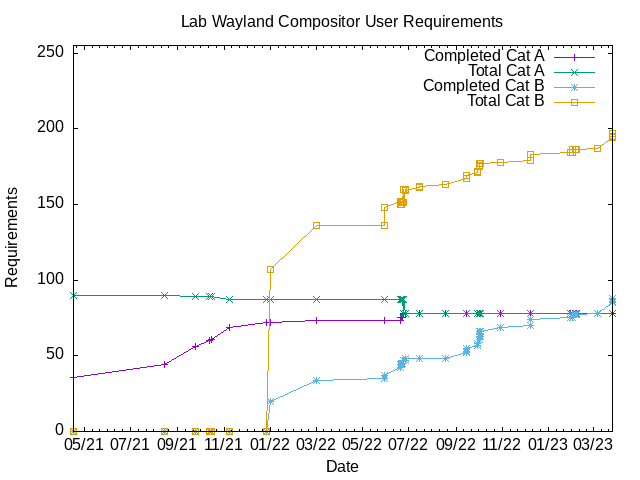
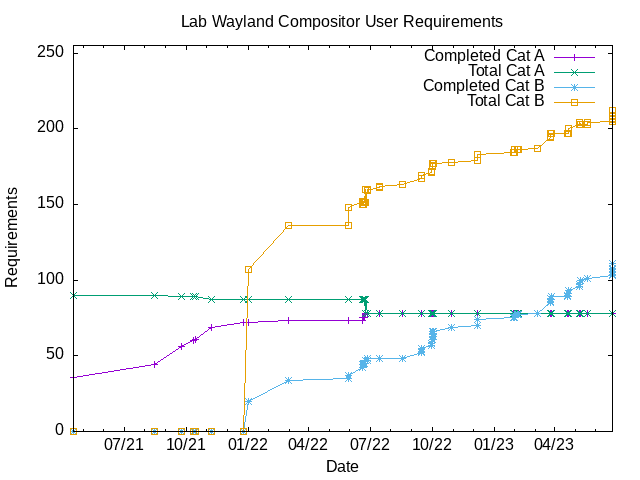
Update all sorts

diff --git a/all-cat-A-and-B-items.md b/all-cat-A-and-B-items.md
@@ -100,7 +100,7 @@ This file has been auto-generated based on README.md. Do not edit it manually
 |  B  | complete | 1.2.19    | wayland-protocol                | xdg-output-unstable-v1                                  |
 |  B  |          | 1.2.20    | wayland-protocol                | xwayland-keyboard-grab-unstable-v1                      |
 |  B  | complete | 1.2.21    | wayland-protocol                | drm-lease-v1                                            |
-|  B  |          | 1.2.22    | wayland-protocol                | [ext-session-lock-v1]                                   | This is more secure [^1]
+|  B  | complete | 1.2.22    | wayland-protocol                | [ext-session-lock-v1]                                   | This is more secure [^1]
 |  B  | complete | 1.2.23    | wayland-protocol                | xdg-activation-v1                                       |
 |  B  | complete | 1.2.24    | wayland-protocol                | single-pixel-buffer-v1                                  |
 |  B  | complete | 1.3.1     | wlr-protocol                    | wlr-data-control-unstable-v1                            |
@@ -110,9 +110,10 @@ This file has been auto-generated based on README.md. Do not edit it manually
 |  B  | complete | 1.3.8     | wlr-protocol                    | wlr-output-power-management-unstable-v1                 |
 |  B  | complete | 1.3.9     | wlr-protocol                    | wlr-screencopy-unstable-v1                              |
 |  B  | complete | 1.3.10    | wlr-protocol                    | wlr-virtual-pointer-unstable-v1                         |
-|  B  |          | 1.3.11    | wlr-protocol                    | [kde-server-decoration]                                 | xdg-decoration is preferable, but we support this until GTK move across
+|  B  | complete | 1.3.11    | wlr-protocol                    | [kde-server-decoration]                                 | xdg-decoration is preferable, but we support this until GTK move across
 |  B  |          | 2.1.1     | resistance                      | `strength`                                              | If we implement, consider a better name
 |  B  | complete | 2.2.3     | focus                           | `followMouse`                                           |
+|  B  | complete | 2.2.5     | focus                           | `followMouseRequiresMovement`                           | DEVIATION It is called `underMouse` in Openbox
 |  B  | complete | 2.2.6     | focus                           | `raiseOnFocus`                                          |
 |  B+ |          | 2.4.2     | theme                           | `titleLayout`                                           |
 |  B  |          | 2.4.4     | theme                           | `keepBorder`                                            |
@@ -124,14 +125,18 @@ This file has been auto-generated based on README.md. Do not edit it manually
 |  B  | complete | 2.4.12    | theme                           | `<font place=""><size>`                                 |
 |  B  | complete | 2.4.13    | theme                           | `<font place=""><weight>`                               |
 |  B  | complete | 2.4.14    | theme                           | `<font place=""><slant>`                                |
+|  B  | complete | 2.5.1     | desktop                         | `number`                                                |
 |  B  | complete | 2.5.3     | desktop                         | `popupTime`                                             |
 |  B  | complete | 2.5.4     | desktop                         | `names`                                                 |
-|  B  |          | 2.7.1     | applications                    | `decor`                                                 |
-|  B  |          | 2.7.3     | applications                    | `position`                                              |
-|  B  |          | 2.7.4     | applications                    | `size`                                                  |
-|  B  |          | 2.7.6     | applications                    | `desktop`                                               |
-|  B  |          | 2.7.7     | applications                    | `layer`                                                 | If we implement, consider better name
-|  B  |          | 2.7.12    | applications                    | `maximized`                                             |
+|  B  | complete | 2.7.1     | window rules                    | `windowRule`                                            | EXTRA
+|  B  | complete | 2.7.2.1   | window rule criteria            | `windowRule.identifier`                                 | EXTRA
+|  B  | complete | 2.7.2.2   | window rule criteria            | `windowRule.title`                                      | EXTRA
+|  B  | complete | 2.7.2.3   | window rule criteria            | `windowRule.matchOnce`                                  | EXTRA
+|  B  | complete | 2.7.3.1   | window rules                    | `windowRule.serverDecoration`                           | EXTRA
+|  B  | complete | 2.7.3.2   | window rules                    | `windowRule.skipTaskbar`                                | EXTRA
+|  B  | complete | 2.7.3.3   | window rules                    | `windowRule.skipWindowSwitcher`                         | EXTRA
+|  B  |          | 2.7.3.4   | window rules                    | `windowRule.allowFocusRequest`                          | EXTRA
+|  B  | complete | 2.10.1    | margins                         | `<margin>`                                              |
 |  B  |          | 2.11.1    | menu                            | `hideDelay`                                             |
 |  B  |          | 2.11.3    | menu                            | `submenuShowDelay`                                      |
 |  B  |          | 2.11.6    | menu                            | `file`                                                  | TODO: is this supported already?
@@ -139,9 +144,12 @@ This file has been auto-generated based on README.md. Do not edit it manually
 |  B  | complete | 2.13.1    | core                            | `gap`                                                   | EXTRA
 |  B  | complete | 2.13.1    | core                            | `adaptiveSync`                                          | EXTRA
 |  B  | complete | 2.13.1    | core                            | `reuseOutputMode`                                       | EXTRA
-|  B  | complete | 2.13.1    | core                            | `windowSwitcher.show`                                   | EXTRA
-|  B  | complete | 2.13.1    | core                            | `windowSwitcher.preview`                                | EXTRA
-|  B  | complete | 2.13.1    | core                            | `windowSwitcher.outlines`                               | EXTRA
+|  B  | complete | 2.13.1    | window switcher                 | `show`                                                  | EXTRA
+|  B  | complete | 2.13.2    | window switcher                 | `preview`                                               | EXTRA
+|  B  | complete | 2.13.3    | window switcher                 | `outlines`                                              | EXTRA
+|  B  | complete | 2.13.4    | window switcher                 | `fields.field`                                          | EXTRA
+|  B  | complete | 2.13.5    | window switcher                 | `fields.field.content`                                  | EXTRA
+|  B  | complete | 2.13.6    | window switcher                 | `fields.field.width`                                    | EXTRA
 |  B  | complete | 3.1.6     | keyboard binding                | `default`                                               | EXTRA
 |  B  | complete | 3.2.4     | mouse binding                   | `default`                                               | EXTRA
 |  B  | complete | 3.3.1     | mouse context                   | `Frame`                                                 |
@@ -171,6 +179,7 @@ This file has been auto-generated based on README.md. Do not edit it manually
 |  B  | complete | 4.7.1.1   | global action                   | `GoToDesktop.to::last`                                  |
 |  B  | complete | 4.7.1.2   | global action                   | `GoToDesktop.to::right`                                 |
 |  B  | complete | 4.7.1.3   | global action                   | `GoToDesktop.to::left`                                  |
+|  B  | complete | 4.7.2     | global action                   | `GoToDesktop.wrap`                                      |
 |  B  |          | 4.8       | global action                   | `AddDesktop`                                            |
 |  B  |          | 4.9       | global action                   | `RemoveDesktop`                                         |
 |  B  |          | 4.10      | global action                   | `ToggleShowDesktop`                                     |
@@ -196,14 +205,17 @@ This file has been auto-generated based on README.md. Do not edit it manually
 |  B  | complete | 5.20      | window action                   | `SendToDesktop`                                         |
 |  B  | complete | 5.20.1    | window action                   | `SendToDesktop.to`                                      |
 |  B  | complete | 5.20.2    | window action                   | `SendToDesktop.follow`                                  |
-|  B  |          | 5.23      | window action                   | `MoveResizeTo`                                          |
-|  B  |          | 5.24      | window action                   | `MoveRelative`                                          |
+|  B  | complete | 5.20.3    | window action                   | `SendToDesktop.wrap`                                    |
+|  B  | complete | 5.23.1    | window action                   | `MoveTo`                                                | DEVIATION: `MoveResizeTo` in Openbox
+|  B  |          | 5.23.2    | window action                   | `ResizeTo`                                              |
+|  B  | complete | 5.24      | window action                   | `MoveRelative`                                          |
 |  B  |          | 5.25      | window action                   | `ResizeRelative`                                        |
 |  B  | complete | 5.26      | window action                   | `MoveToEdge`                                            |
 |  B  |          | 5.27      | window action                   | `GrowToEdge`                                            |
 |  B  |          | 5.28      | window action                   | `GrowToFill`                                            |
 |  B  |          | 5.29      | window action                   | `ShrinkToEdge`                                          |
 |  B  | complete | 5.33      | window action                   | `ToggleAlwaysOnTop`                                     |
+|  B  | complete | 5.34      | window action                   | `ToggleAlwaysOnBottom`                                  |
 |  B  | complete | 5.36      | window action                   | `SnapToEdge`                                            | EXTRA
 |  B  | complete | 5.37      | window action                   | `SnapToRegion`                                          | EXTRA
 |  B  |          | 6.1.2     | geometry                        | `menu.border.width`                                     |
@@ -269,10 +281,13 @@ This file has been auto-generated based on README.md. Do not edit it manually
 |  B  | complete | 6.12.1    | text justification              | `window.label.text.justify`                             |
 |  B  |          | 6.12.2    | text justification              | `menu.title.text.justify`                               |
 |  B  | complete | 8.3.1     | extra                           | Read menu.xbm if it exists                              | EXTRA
+|  B  | complete | 7.0.1     | menu general                    | Parse menu.xml in accordance with Openbox 3.6 spec      |
+|  B  | complete | 7.0.2     | menu general                    | Handle pointer input                                    |
+|  B+ |          | 7.0.3     | menu general                    | Handle keyboard input                                   |
 |  B  |          | 7.1.2     | menu syntax general             | `label`                                                 |
 |  B  |          | 7.1.4     | menu syntax general             | `execute`                                               | aka pipe-menus
 |  B  |          | 7.3.2     | menu syntax separator           | `<separator label="" />`                                | For separator with text
-|  B  |          | 8.1.2     | extra                           | Support png buttons                                     |
+|  B+ |          | 8.1.2     | extra                           | Support png buttons                                     |
 |  B  | complete | 8.2.1     | extra                           | `<snapping>`                                            |
 |  B  | complete | 8.2.2     | extra                           | `<snapping><range>`                                     |
 |  B  | complete | 8.2.3     | extra                           | `<snapping><topMaximize>`                               |

diff --git a/incomplete-cat-B-items.md b/incomplete-cat-B-items.md
@@ -3,6 +3,8 @@ This file has been auto-generated based on README.md. Do not edit it manually
 | Cat | Status   | Reference | Category                        | Description                                             | Comment
 | --- | -------- | --------- | ------------------------------- | ------------------------------------------------------- | -------
 |  B+ |          | 2.4.2     | theme                           | `titleLayout`                                           |
+|  B+ |          | 7.0.3     | menu general                    | Handle keyboard input                                   |
+|  B+ |          | 8.1.2     | extra                           | Support png buttons                                     |
 |  B  |          | 1.2.6     | wayland-protocol                | input-method-unstable-v1                                |
 |  B  |          | 1.2.7     | wayland-protocol                | input-timestamps-unstable-v1                            |
 |  B  |          | 1.2.8     | wayland-protocol                | keyboard-shortcuts-inhibit-unstable-v1                  | This is controversial [^3]
@@ -13,18 +15,11 @@ This file has been auto-generated based on README.md. Do not edit it manually
 |  B  |          | 1.2.16    | wayland-protocol                | text-input-unstable-v3                                  |
 |  B  |          | 1.2.18    | wayland-protocol                | xdg-foreign-unstable-v2                                 |
 |  B  |          | 1.2.20    | wayland-protocol                | xwayland-keyboard-grab-unstable-v1                      |
-|  B  |          | 1.2.22    | wayland-protocol                | [ext-session-lock-v1]                                   | This is more secure [^1]
-|  B  |          | 1.3.11    | wlr-protocol                    | [kde-server-decoration]                                 | xdg-decoration is preferable, but we support this until GTK move across
 |  B  |          | 2.1.1     | resistance                      | `strength`                                              | If we implement, consider a better name
 |  B  |          | 2.4.4     | theme                           | `keepBorder`                                            |
 |  B  |          | 2.4.7     | theme                           | `<font place="InactiveWindow">`                         |
 |  B  |          | 2.4.8     | theme                           | `<font place="MenuHeader">`                             |
-|  B  |          | 2.7.1     | applications                    | `decor`                                                 |
-|  B  |          | 2.7.3     | applications                    | `position`                                              |
-|  B  |          | 2.7.4     | applications                    | `size`                                                  |
-|  B  |          | 2.7.6     | applications                    | `desktop`                                               |
-|  B  |          | 2.7.7     | applications                    | `layer`                                                 | If we implement, consider better name
-|  B  |          | 2.7.12    | applications                    | `maximized`                                             |
+|  B  |          | 2.7.3.4   | window rules                    | `windowRule.allowFocusRequest`                          | EXTRA
 |  B  |          | 2.11.1    | menu                            | `hideDelay`                                             |
 |  B  |          | 2.11.3    | menu                            | `submenuShowDelay`                                      |
 |  B  |          | 2.11.6    | menu                            | `file`                                                  | TODO: is this supported already?
@@ -48,8 +43,7 @@ This file has been auto-generated based on README.md. Do not edit it manually
 |  B  |          | 5.15      | window action                   | `Unmaximize`                                            | Needed if we implement 2.7 `<applications>`
 |  B  |          | 5.18      | window action                   | `Decorate`                                              | Needed if we implement 2.7 `<applications>`
 |  B  |          | 5.19      | window action                   | `Undecorate`                                            | Needed if we implement 2.7 `<applications>`
-|  B  |          | 5.23      | window action                   | `MoveResizeTo`                                          |
-|  B  |          | 5.24      | window action                   | `MoveRelative`                                          |
+|  B  |          | 5.23.2    | window action                   | `ResizeTo`                                              |
 |  B  |          | 5.25      | window action                   | `ResizeRelative`                                        |
 |  B  |          | 5.27      | window action                   | `GrowToEdge`                                            |
 |  B  |          | 5.28      | window action                   | `GrowToFill`                                            |
@@ -109,4 +103,3 @@ This file has been auto-generated based on README.md. Do not edit it manually
 |  B  |          | 7.1.2     | menu syntax general             | `label`                                                 |
 |  B  |          | 7.1.4     | menu syntax general             | `execute`                                               | aka pipe-menus
 |  B  |          | 7.3.2     | menu syntax separator           | `<separator label="" />`                                | For separator with text
-|  B  |          | 8.1.2     | extra                           | Support png buttons                                     |

diff --git a/extra.md b/extra.md
@@ -1,0 +1,36 @@
+This file has been auto-generated based on README.md. Do not edit it manually
+
+| Cat | Status   | Reference | Category                        | Description                                             | Comment
+| --- | -------- | --------- | ------------------------------- | ------------------------------------------------------- | -------
+|  B  | complete | 2.7.1     | window rules                    | `windowRule`                                            | EXTRA
+|  B  | complete | 2.7.2.1   | window rule criteria            | `windowRule.identifier`                                 | EXTRA
+|  B  | complete | 2.7.2.2   | window rule criteria            | `windowRule.title`                                      | EXTRA
+|  B  | complete | 2.7.2.3   | window rule criteria            | `windowRule.matchOnce`                                  | EXTRA
+|  B  | complete | 2.7.3.1   | window rules                    | `windowRule.serverDecoration`                           | EXTRA
+|  B  | complete | 2.7.3.2   | window rules                    | `windowRule.skipTaskbar`                                | EXTRA
+|  B  | complete | 2.7.3.3   | window rules                    | `windowRule.skipWindowSwitcher`                         | EXTRA
+|  B  |          | 2.7.3.4   | window rules                    | `windowRule.allowFocusRequest`                          | EXTRA
+|  B  | complete | 2.13.1    | core                            | `decoration`                                            | EXTRA
+|  B  | complete | 2.13.1    | core                            | `gap`                                                   | EXTRA
+|  B  | complete | 2.13.1    | core                            | `adaptiveSync`                                          | EXTRA
+|  B  | complete | 2.13.1    | core                            | `reuseOutputMode`                                       | EXTRA
+|  B  | complete | 2.13.1    | window switcher                 | `show`                                                  | EXTRA
+|  B  | complete | 2.13.2    | window switcher                 | `preview`                                               | EXTRA
+|  B  | complete | 2.13.3    | window switcher                 | `outlines`                                              | EXTRA
+|  B  | complete | 2.13.4    | window switcher                 | `fields.field`                                          | EXTRA
+|  B  | complete | 2.13.5    | window switcher                 | `fields.field.content`                                  | EXTRA
+|  B  | complete | 2.13.6    | window switcher                 | `fields.field.width`                                    | EXTRA
+|  B  | complete | 3.1.6     | keyboard binding                | `default`                                               | EXTRA
+|  B  | complete | 3.2.4     | mouse binding                   | `default`                                               | EXTRA
+|  B  | complete | 3.3.21    | mouse context                   | `Title`                                                 | EXTRA
+|  B  | complete | 4.16      | global action                   | `Debug`                                                 | EXTRA
+|  B  | complete | 4.17      | global action                   | `None`                                                  | EXTRA Removes other actions within mouse bindings
+|  B  | complete | 4.18      | global action                   | `Kill`                                                  | EXTRA Send SIGTERM
+|  B  | complete | 4.19      | global action                   | `FocusOutput`                                           | EXTRA
+|  B  | complete | 5.36      | window action                   | `SnapToEdge`                                            | EXTRA
+|  B  | complete | 5.37      | window action                   | `SnapToRegion`                                          | EXTRA
+|  B  | complete | 6.1.15    | geometry                        | `menu.width.min`                                        | EXTRA
+|  B  | complete | 6.1.16    | geometry                        | `menu.width.max`                                        | EXTRA
+|  B  | complete | 6.1.17    | geometry                        | `menu.items.padding.x`                                  | EXTRA
+|  B  | complete | 6.1.18    | geometry                        | `menu.items.padding.y`                                  | EXTRA
+|  B  | complete | 8.3.1     | extra                           | Read menu.xbm if it exists                              | EXTRA

diff --git a/deviations.md b/deviations.md
@@ -1,0 +1,8 @@
+This file has been auto-generated based on README.md. Do not edit it manually
+
+| Cat | Status   | Reference | Category                        | Description                                             | Comment
+| --- | -------- | --------- | ------------------------------- | ------------------------------------------------------- | -------
+|  B  | complete | 2.2.5     | focus                           | `followMouseRequiresMovement`                           | DEVIATION It is called `underMouse` in Openbox
+|  B  | complete | 3.3.4     | mouse context                   | `Root`                                                  | DEVIATION [^2]
+|  B  | complete | 3.5.6     | mouse event                     | `Scroll`                                                | DEVIATION: Scroll is used instead of Click for mouse-buttons Up/Down
+|  B  | complete | 5.23.1    | window action                   | `MoveTo`                                                | DEVIATION: `MoveResizeTo` in Openbox

diff --git a/stats.md b/stats.md
@@ -3,6 +3,6 @@ This file has been auto-generated based on README.md. Do not edit it manually
 # Requirements Breakdown
 
 - Cat A:  78 / 78 complete
-- Cat B:  89 / 197 complete
-- Cat C:  0 / 59 complete
-- TOTAL:  167 / 334 complete
+- Cat B:  111 / 212 complete
+- Cat C:  0 / 48 complete
+- TOTAL:  189 / 338 complete

diff --git a/README.md b/README.md
@@ -3,6 +3,8 @@
 <h3 align="center">[<a
 href="incomplete-cat-B-items.md">Incomplete&nbsp;Cat&nbsp;B</a>] [<a
 href="all-cat-A-and-B-items.md">Cat&nbsp;A&nbsp;and&nbsp;B</a>] [<a
+href="deviations.md">Deviations</a>] [<a
+href="extra.md">Extra</a>] [<a
 href="stats.md">Stats</a>]</h3>
 
 - [Introduction](#introduction)
